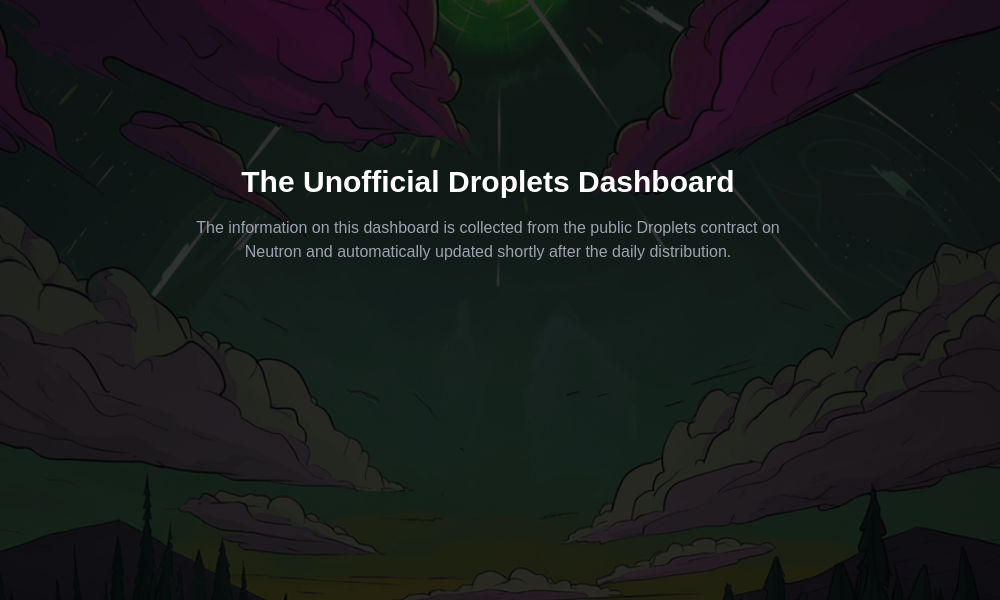
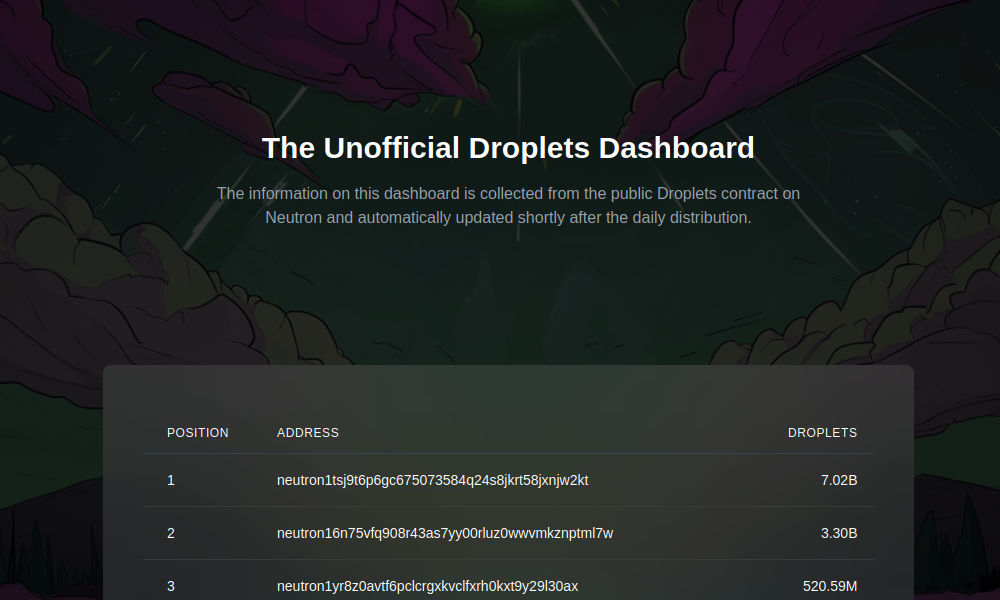
Fix mobile display issues for search

diff --git a/dashboard/src/components/leaderboard-table.tsx b/dashboard/src/components/leaderboard-table.tsx
@@ -81,33 +81,37 @@ const LeaderboardTable = () => {
         );
 
     return (
-        <div className="p-6 w-full mt-8">
-            <div className='pb-4 mb-4'>
-                <div className="float-right">
+        <div className="pt-6 pb-6 w-full mt-8">
+            <div className="pb-4 mb-4">
+                <h2 className="text-xl font-semibold mb-4 text-white block sm:hidden">Leaderboard</h2>
+                <div className="flex flex-col items-center sm:float-right sm:flex-row sm:items-center sm:justify-end sm:gap-0 gap-2">
                     <input
                         type="text"
                         placeholder="Search address..."
                         value={searchTerm}
                         onChange={(e) => setSearchTerm(e.target.value)}
-                        className="p-2 border rounded-l-md text-gray-500 focus:outline-none"
+                        className="p-2 border rounded-md text-gray-500 focus:outline-none sm:rounded-l-md flex-grow"
                     />
                     <button
                         onClick={handleSearch}
-                        className="px-4 py-2 drop-purple text-white rounded-r-md hover:drop-purple"
+                        className="px-4 py-2 drop-purple text-white rounded-md sm:rounded-none sm:rounded-r-md hover:drop-purple"
                     >
                         Search
                     </button>
                     {searchTerm && (
                         <button
                             onClick={handleClearSearch}
-                            className="px-4 py-2 ml-2 drop-red text-gray-400 hover:text-white rounded-md"
+                            className="px-4 py-2 rounded-md sm:ml-2 text-gray-400 hover:text-white"
                         >
                             Clear
                         </button>
                     )}
                 </div>
-                <h2 className="text-xl font-semibold mb-4 text-white">Leaderboard</h2>
+                <h2 className="text-xl font-semibold mb-4 text-white hidden sm:block">Leaderboard</h2>
             </div>
+
+
+
             <div className="overflow-x-auto">
                 <table className="min-w-full divide-y divide-gray-700">
                     <thead className="">
@@ -141,13 +145,12 @@ const LeaderboardTable = () => {
                 </table>
             </div>
 
-            {/* Pagination Controls */}
             {!isSearching && (
                 <div className="flex justify-between mt-4">
                     <button
                         onClick={handlePreviousPage}
                         disabled={offset === 0}
-                        className="px-4 py-2 drop-purple text-white rounded-md hover:drop-purple  disabled:opacity-50"
+                        className="px-4 py-2 drop-purple text-white rounded-md hover:drop-purple disabled:opacity-50"
                     >
                         Previous
                     </button>

diff --git a/dashboard/src/pages/address/[address].tsx b/dashboard/src/pages/address/[address].tsx
@@ -5,7 +5,7 @@ import DropletHistoryChart from '../../components/droplet-history-chart';
 import { formatNumberCompact } from '@/lib/format-number-compact';
 import { shortenAddress } from '@/lib/shorten-address';
 import { GET_ADDRESS_DETAILS, GET_ADDRESS_HISTORY } from '@/graphql/queries';
-import { formatDateLong } from '@/lib/format-date';
+import { formatDate, formatDateLong } from '@/lib/format-date';
 import Link from 'next/link';
 import DashboardHeader from '@/components/dashboard-header';
 
@@ -103,7 +103,7 @@ const AddressDetailsPage = () => {
             <DropletHistoryChart address={address as string} />
           </div>
 
-          <div className="p-4 w-full mt-8">
+          <div className="w-full mt-8">
             <h2 className="text-xl font-semibold mb-4 text-white">Daily Change</h2>
             <div className="overflow-x-auto">
               <table className="min-w-full divide-y divide-gray-700">
@@ -117,7 +117,9 @@ const AddressDetailsPage = () => {
                 <tbody className="divide-y divide-gray-700">
                   {historyWithChanges.map((entry) => (
                     <tr key={entry.id}>
-                      <td className="px-6 py-4 whitespace-nowrap text-sm text-white">{formatDateLong(entry.date_block)}</td>
+
+                      <td className="px-6 py-4 whitespace-nowrap text-sm text-white hidden md:block">{formatDateLong(entry.date_block)}</td>
+                      <td className="px-6 py-4 whitespace-nowrap text-sm text-white block md:hidden">{formatDate(entry.date_block)}</td>
                       <td className="px-6 py-4 whitespace-nowrap text-sm text-white">{formatNumberCompact(entry.droplets / 10 ** 6)}</td>
                       <td className={`px-6 py-4 whitespace-nowrap text-sm ${entry.dailyChange >= 0 ? 'text-green-500' : 'text-red-500'}`}>
                         +{formatNumberCompact(entry.dailyChange / 10 ** 6)}

diff --git a/dashboard/src/pages/_app.tsx b/dashboard/src/pages/_app.tsx
@@ -12,12 +12,12 @@ export default function App({ Component, pageProps }: AppProps) {
         <title>The Unofficial Droplets Dashboard</title>
         <meta property="og:title" content="The Unofficial Droplets Dashboard" />
         <meta property="og:description" content="A simple dashboard showing the farming of Droplets from Drop" />
-        <meta property="og:image" content="https://droplets.fyi/og.png" />
+        <meta property="og:image" content="https://dropletsdash.xyz/og.png" />
         <meta name="twitter:card" content="summary_large_image" />
         <meta name="twitter:site" content="@donovansolms" />
         <meta name="twitter:title" content="The Unofficial Droplets Dashboard" />
         <meta name="twitter:description" content="A simple dashboard showing the farming of Droplets from Drop" />
-        <meta name="twitter:image" content="https://droplets.fyi/og.png" />
+        <meta name="twitter:image" content="https://dropletsdash.xyz/og.png" />
       </Head>
       <Component {...pageProps} />
     </ApolloProvider>

diff --git a/dashboard/src/pages/index.tsx b/dashboard/src/pages/index.tsx
@@ -58,7 +58,12 @@ const Dashboard = () => {
             height: number;
           }) => (
             <div className="text-center text-white opacity-30">
-              Droplets last updated on {formatDateWithTime(droplet_stats_history.date_block)}
+              <p>
+                Droplets last updated on {formatDateWithTime(droplet_stats_history.date_block)}
+              </p>
+              <p>
+                Addresses not eligible for the airdrop have been removed from this dashboard
+              </p>
             </div>
           )
         )}

diff --git a/dashboard/src/lib/apollo-client.ts b/dashboard/src/lib/apollo-client.ts
@@ -1,7 +1,7 @@
 import { ApolloClient, InMemoryCache } from '@apollo/client';
 
 const client = new ApolloClient({
-    uri: 'http://private-server:8080/v1/graphql',
+    uri: 'https://api.dropletsdash.xyz/v1/graphql',
     cache: new InMemoryCache(),
 });
 
